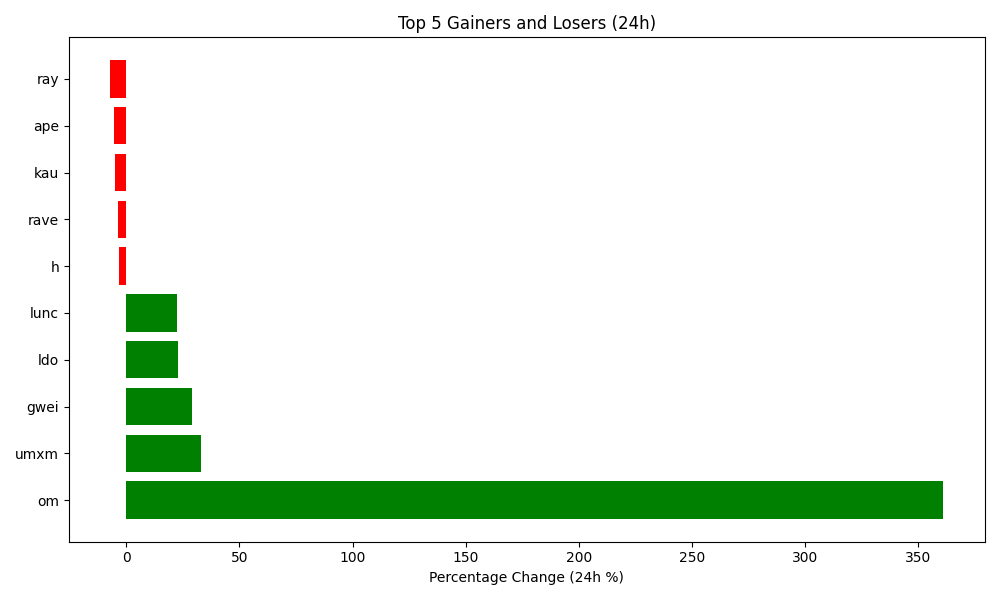
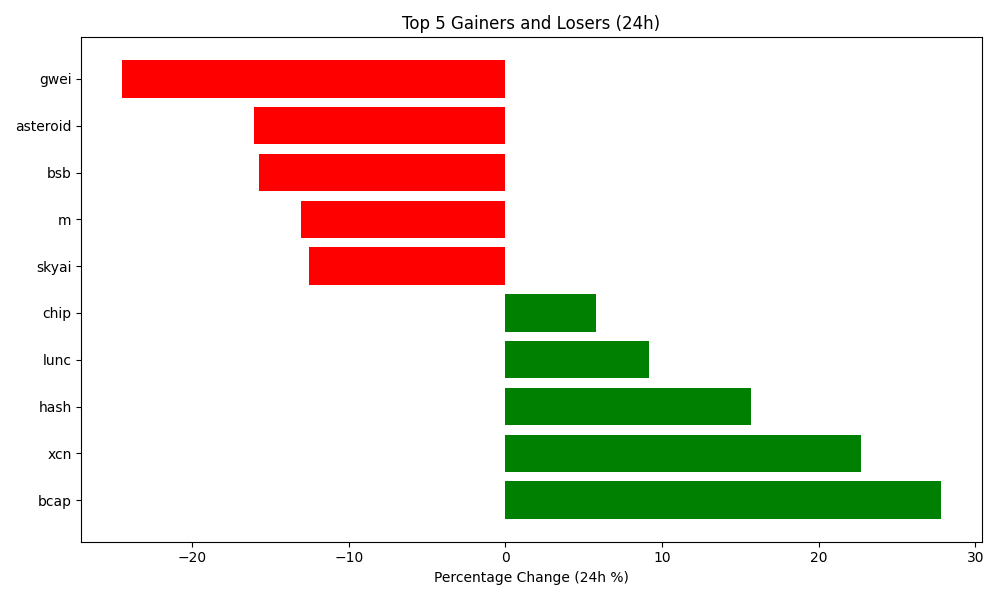
Auto-update crypto data and plot

diff --git a/README.md b/README.md
@@ -4,7 +4,7 @@ Author: Hitesh Agrawal
 This repository automatically tracks the top 5 gaining, top 5 losing, and top 5 highest volume cryptocurrencies in the last 24 hours using the CoinGecko API, Python, Matplotlib, and GitHub Actions updates the below content everyday at midnight.
 
 <!-- START_DYNAMIC_CONTENT -->
-Last updated: 2026-04-27 02:05 UTC
+Last updated: 2026-04-28 02:11 UTC
 
 ![Crypto Movers Plot](crypto_movers_plot.png)
 
@@ -12,33 +12,33 @@ Last updated: 2026-04-27 02:05 UTC
 
 | Rank | Coin | Price Change (24h %) | Volume (USD) | Current Price (USD) |
 | :--: | :--: | :------------------: | :----------: | :-----------------: |
-| 1 | om | 361.00% | $7,842 | $0.0644 |
-| 2 | umxm | 32.79% | $9,916,914 | $1.9500 |
-| 3 | gwei | 28.85% | $23,055,562 | $0.1233 |
-| 4 | ldo | 23.03% | $261,682,516 | $0.4529 |
-| 5 | lunc | 22.28% | $61,168,596 | $0.0001 |
+| 1 | bcap | 27.78% | $0 | $105.7500 |
+| 2 | xcn | 22.69% | $216,995,533 | $0.0058 |
+| 3 | hash | 15.65% | $165,936 | $0.0125 |
+| 4 | lunc | 9.14% | $132,022,363 | $0.0001 |
+| 5 | chip | 5.78% | $561,367,380 | $0.0770 |
 
 
 **👇 Top 5 Losers (24h)**
 
 | Rank | Coin | Price Change (24h %) | Volume (USD) | Current Price (USD) |
 | :--: | :--: | :------------------: | :----------: | :-----------------: |
-| 1 | ray | -7.05% | $220,133,063 | $0.7418 |
-| 2 | ape | -5.48% | $134,784,409 | $0.1464 |
-| 3 | kau | -4.96% | $20,474 | $147.0500 |
-| 4 | rave | -3.81% | $67,257,059 | $0.8987 |
-| 5 | h | -3.20% | $18,677,013 | $0.1479 |
+| 1 | gwei | -24.47% | $10,523,255 | $0.0914 |
+| 2 | asteroid | -16.05% | $33,977,449 | $0.0003 |
+| 3 | bsb | -15.73% | $79,997,143 | $0.7043 |
+| 4 | m | -13.06% | $18,183,171 | $3.7400 |
+| 5 | skyai | -12.56% | $16,404,936 | $0.1652 |
 
 
 **💎 Top 5 by Trade Volume (24h)**
 
 | Rank | Coin | Price Change (24h %) | Volume (USD) | Current Price (USD) |
 | :--: | :--: | :------------------: | :----------: | :-----------------: |
-| 1 | usdt | -0.00% | $43,376,730,761 | $1.0000 |
-| 2 | btc | 2.17% | $26,681,702,286 | $79,198.0000 |
-| 3 | eth | 3.29% | $11,581,604,280 | $2,390.9400 |
-| 4 | usdc | 0.01% | $8,042,641,123 | $0.9999 |
-| 5 | sol | 2.07% | $2,630,737,748 | $87.7700 |
+| 1 | usdt | -0.02% | $63,326,631,906 | $0.9999 |
+| 2 | btc | -2.56% | $37,463,050,916 | $77,115.0000 |
+| 3 | eth | -3.80% | $16,562,073,043 | $2,299.0900 |
+| 4 | usdc | 0.00% | $13,592,300,953 | $0.9999 |
+| 5 | sol | -3.70% | $3,527,483,942 | $84.4100 |
 
 
 <!-- END_DYNAMIC_CONTENT -->
